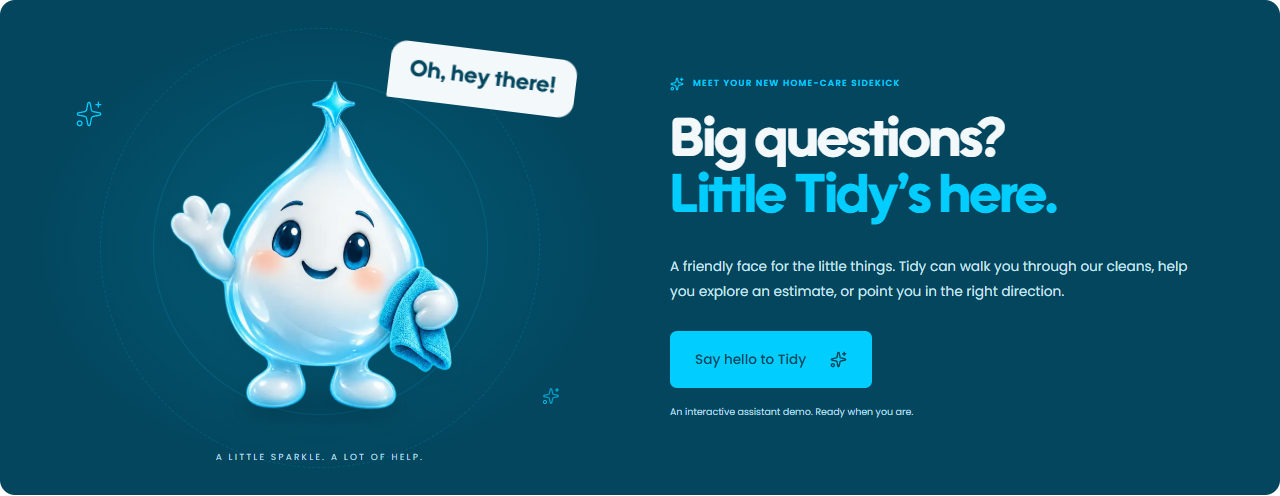
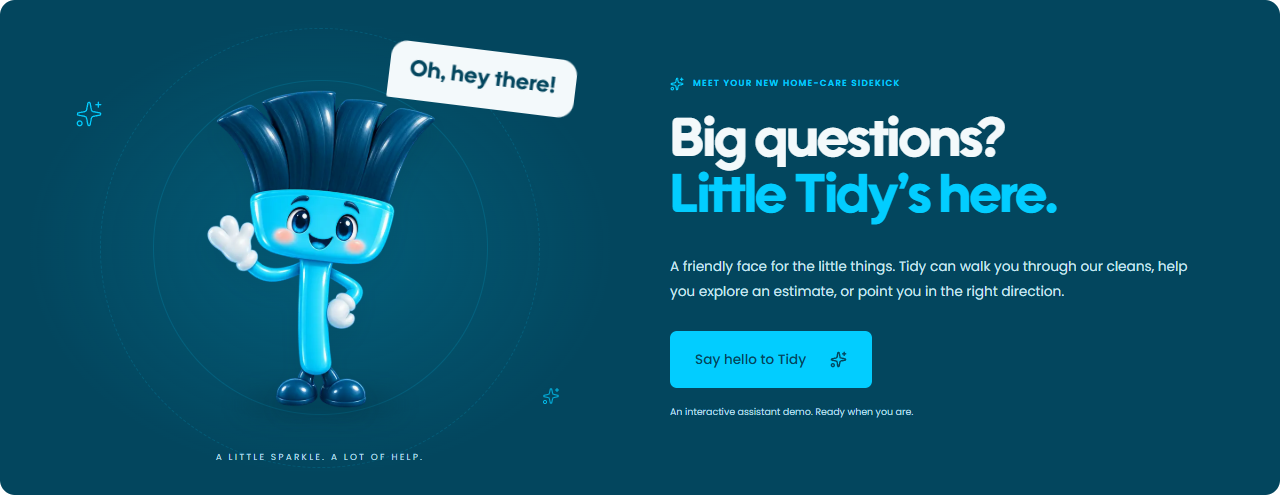
Replace droplet with branded broom mascot across site

Changed region(s): [[0.125, 0.1815, 0.375, 0.8468]]

diff --git a/components/motion.tsx b/components/motion.tsx
@@ -63,10 +63,10 @@ export function Mascot({
       <div className="mascot-tilt">
         <div className="mascot-float">
           <Image
-            src="/tidy-mascot-blue.png"
-            alt="Tidy, a friendly cyan-blue water droplet mascot waving hello"
-            width={460}
-            height={460}
+            src="/tidy-mascot-broom.png"
+            alt="Tidy, a friendly cyan and navy broom mascot waving hello"
+            width={1148}
+            height={1371}
             loading="eager"
             sizes="(max-width: 600px) 240px, 400px"
           />

diff --git a/components/assistant.tsx b/components/assistant.tsx
@@ -91,7 +91,13 @@ export function Assistant() {
             </span>
           </span>
           <span className="launcher-avatar">
-            <Image src="/tidy-mascot-blue.png" alt="" width={95} height={95} />
+            <Image
+              src="/tidy-mascot-broom.png"
+              alt=""
+              width={1148}
+              height={1371}
+              sizes="80px"
+            />
             <span className="assistant-status" />
           </span>
         </button>

diff --git a/app/globals.css b/app/globals.css
@@ -1265,12 +1265,14 @@ input::placeholder {
   transform-style: preserve-3d;
 }
 .mascot-float {
+  aspect-ratio: 1;
   animation: tidy-float 5s ease-in-out infinite;
   filter: drop-shadow(0 12px 10px #0127351a);
 }
 .mascot img {
-  height: auto;
+  height: 100%;
   width: 100%;
+  object-fit: contain;
   user-select: none;
   pointer-events: none;
 }

diff --git a/README.md b/README.md
@@ -38,7 +38,7 @@ npm start
 - Standard, Deep, and Moving Cleaning service cards and a detailed comparison.
 - Three-step estimate flow with room selectors, service selection, contact validation, and an editable result.
 - Accessible mobile navigation and assistant dialogs with keyboard controls.
-- **Tidy**, an original translucent cyan-blue droplet mascot, with floating motion, cursor-driven perspective, a thinking state, and a happy response animation.
+- **Tidy**, a cyan and navy broom mascot inspired by the original TidyUp! logo, with floating motion, cursor-driven perspective, a thinking state, and a happy response animation.
 - Gentle scroll reveals, image interactions, orbiting accents, and micro-interactions.
 - Reduced-motion support; animations and perspective effects switch off when requested by the visitor’s system preference.
 - Service information, FAQs, local contact details, and a testimonial layout preview.
@@ -84,7 +84,7 @@ components/quote-calculator.tsx  Estimate wizard and service selection
 components/assistant.tsx     Tidy chat, replies, and conversation state
 components/motion.tsx        Scroll reveals and mascot perspective/motion
 lib/content.ts               Services, comparison, FAQs, sample pricing
-public/tidy-mascot.png       Original mascot with transparency
+public/tidy-mascot-broom.png Current broom mascot with transparency
 public/favicon.svg           Brand-specific icon
 ```
 

diff --git a/ASSETS.md b/ASSETS.md
@@ -2,9 +2,12 @@
 
 ## Tidy mascot
 
-- Current file: `public/tidy-mascot-blue.png`; original retained at `public/tidy-mascot.png`.
+- Current file: `public/tidy-mascot-broom.png` (1148 × 1371, transparent PNG).
+- Broom character generated with the built-in OpenAI image tool, using the original TidyUp! logo's upright broom as the shape reference and the blue droplet mascot as the rendering reference. The navy bristles, cyan band and handle, friendly face, waving glove, and shoes form the current character.
+- Brand reference: https://tidyupmidland.com/wp-content/uploads/2025/01/Group-1.webp
+- Previous droplet concepts retained at `public/tidy-mascot-blue.png` and `public/tidy-mascot.png`.
 - Created specifically for this prototype using the built-in OpenAI image-generation tool.
-- Original PNG, 1280 × 1280 pixels, with transparency.
+- Previous droplet PNGs are 1280 × 1280 pixels, with transparency.
 - Animated in the interface without altering the original image. There is no external API dependency at runtime.
 
 ### Generation prompt
